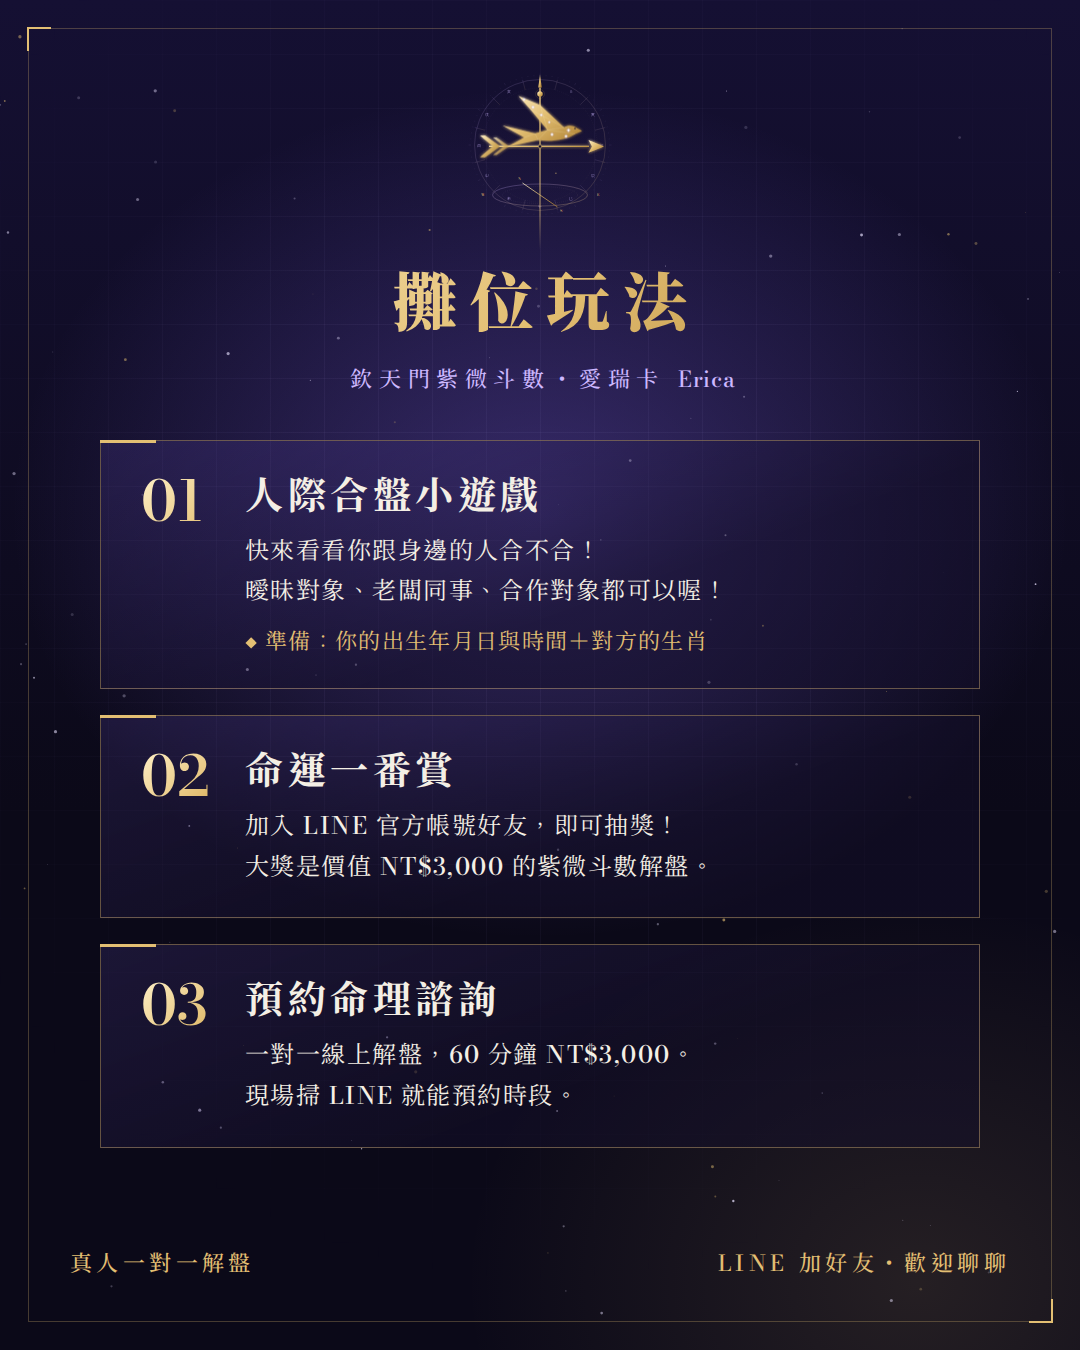
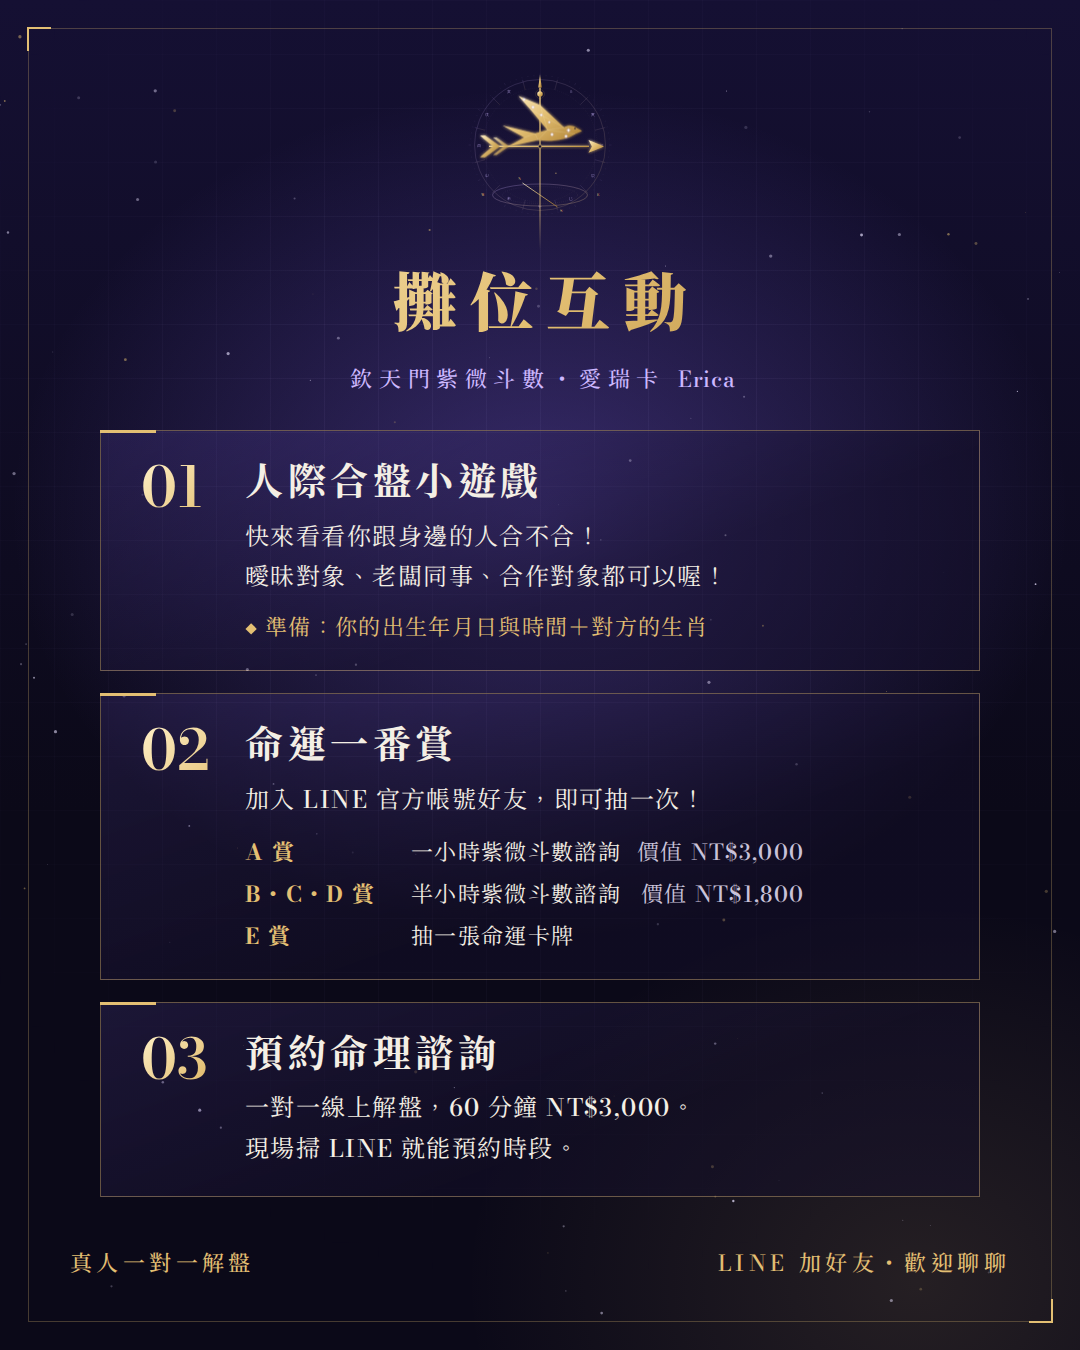
Booth sign: rename to 攤位互動, add 一番賞 prize tiers
Claude-Session: https://claude.ai/code/session_01WeWVZ5r8UiL42UXgK61AKB

diff --git a/line-oa/design/game.html b/line-oa/design/game.html
@@ -1,5 +1,5 @@
 <!doctype html>
-<html lang="zh-Hant"><head><meta charset="utf-8"><title>攤位玩法</title>
+<html lang="zh-Hant"><head><meta charset="utf-8"><title>攤位互動</title>
 <link rel="stylesheet" href="common.css">
 <link href="https://fonts.googleapis.com/css2?family=Chiron+Sung+HK:wght@300;400;500;700;900&family=Bodoni+Moda:wght@500;600;700&display=swap" rel="stylesheet">
 <style>
@@ -12,8 +12,8 @@
 .icon{width:150px;height:180px;margin:0 auto 4px}
 .head h1{font-weight:900;font-size:64px;letter-spacing:.2em;padding-left:.2em}
 .head p{margin-top:10px;font-size:22px;font-weight:500;letter-spacing:.3em;padding-left:.3em;color:var(--violet-lt)}
-.list{position:absolute;left:100px;right:100px;top:440px;display:flex;flex-direction:column;gap:26px}
-.item{position:relative;display:flex;gap:32px;padding:32px 40px 30px;
+.list{position:absolute;left:100px;right:100px;top:430px;display:flex;flex-direction:column;gap:22px}
+.item{position:relative;display:flex;gap:32px;padding:28px 40px 26px;
   border:1px solid rgba(227,191,115,.4);background:linear-gradient(160deg,rgba(139,108,255,.13),rgba(20,15,42,.5) 60%)}
 .item::before{content:"";position:absolute;left:-1px;top:-1px;width:56px;height:3px;background:var(--gold)}
 .num{flex:none;width:72px;font-weight:600;font-size:56px;line-height:1}
@@ -21,6 +21,10 @@
 .body p{margin-top:12px;font-size:24px;line-height:1.7;letter-spacing:.06em;color:var(--ink)}
 .body .need{margin-top:12px;font-size:22px;letter-spacing:.06em;color:var(--gold)}
 .body .need::before{content:"";display:inline-block;width:8px;height:8px;margin-right:12px;transform:rotate(45deg) translateY(-3px);background:var(--gold)}
+.prizes{margin-top:14px;display:flex;flex-direction:column;gap:8px}
+.prizes div{display:grid;grid-template-columns:150px 1fr auto;align-items:baseline;gap:16px;font-size:22px;letter-spacing:.06em}
+.prizes b{font-weight:700;color:var(--gold)}
+.prizes em{font-style:normal;color:var(--ink-mid)}
 .foot{position:absolute;left:70px;right:70px;bottom:70px;display:flex;justify-content:space-between;align-items:baseline}
 .foot div{font-size:22px;font-weight:500;letter-spacing:.2em;color:var(--gold)}
 </style></head>
@@ -30,7 +34,7 @@
   <div class="frame"></div>
   <div class="head">
     <div class="icon" data-vane="classic"></div>
-    <h1 class="gold-text">攤位玩法</h1>
+    <h1 class="gold-text">攤位互動</h1>
     <p>欽天門紫微斗數・愛瑞卡 <span style="letter-spacing:.04em">Erica</span></p>
   </div>
   <div class="list">
@@ -46,7 +50,12 @@
       <div class="num gold-text">02</div>
       <div class="body">
         <h2>命運一番賞</h2>
-        <p>加入 LINE 官方帳號好友，即可抽獎！<br>大獎是價值 NT$3,000 的紫微斗數解盤。</p>
+        <p>加入 LINE 官方帳號好友，即可抽一次！</p>
+        <div class="prizes">
+          <div><b>A 賞</b><span>一小時紫微斗數諮詢</span><em>價值 NT$3,000</em></div>
+          <div><b>B・C・D 賞</b><span>半小時紫微斗數諮詢</span><em>價值 NT$1,800</em></div>
+          <div><b>E 賞</b><span>抽一張命運卡牌</span><em></em></div>
+        </div>
       </div>
     </div>
     <div class="item">

diff --git a/line-oa/README.md b/line-oa/README.md
@@ -10,7 +10,7 @@
 | `price.png` | 1080×1350 | 價目表：LINE 圖文訊息、自動回覆 |
 | `avatar.png` | 640×640 | LINE 官方帳號大頭貼 |
 | `cover.png` | 1080×878 | LINE 官方帳號主頁封面 |
-| `game.png` | 1080×1350 | 活動攤位玩法看板 |
+| `game.png` | 1080×1350 | 活動攤位互動看板 |
 
 設計主軸是風向標。傳統風向標上的公雞改成金色燕子，用低多邊形切面做出科技感。外圈是十二地支環，子在正北、卯在正東、午在正南、酉在正西，方位都對。背景用紫微的紫色，再加上北斗七星。
 
@@ -105,11 +105,14 @@
 
 ---
 
-## 五、攤位玩法（`images/game.png`）
+## 五、攤位互動（`images/game.png`）
 
 1. **人際合盤小遊戲**：快來看看你跟身邊的人合不合！曖昧對象、老闆同事、合作對象都可以喔！
    準備：你的出生年月日與時間＋對方的生肖
-2. **命運一番賞**：加入 LINE 官方帳號好友，即可抽獎！大獎是價值 NT$3,000 的紫微斗數解盤。
+2. **命運一番賞**：加入 LINE 官方帳號好友，即可抽一次！
+   - A 賞：一小時紫微斗數諮詢（價值 NT$3,000）
+   - B・C・D 賞：半小時紫微斗數諮詢（價值 NT$1,800）
+   - E 賞：抽一張命運卡牌
 3. **預約命理諮詢**：一對一線上解盤，60 分鐘 NT$3,000。現場掃 LINE 就能預約時段。
 
 ---
